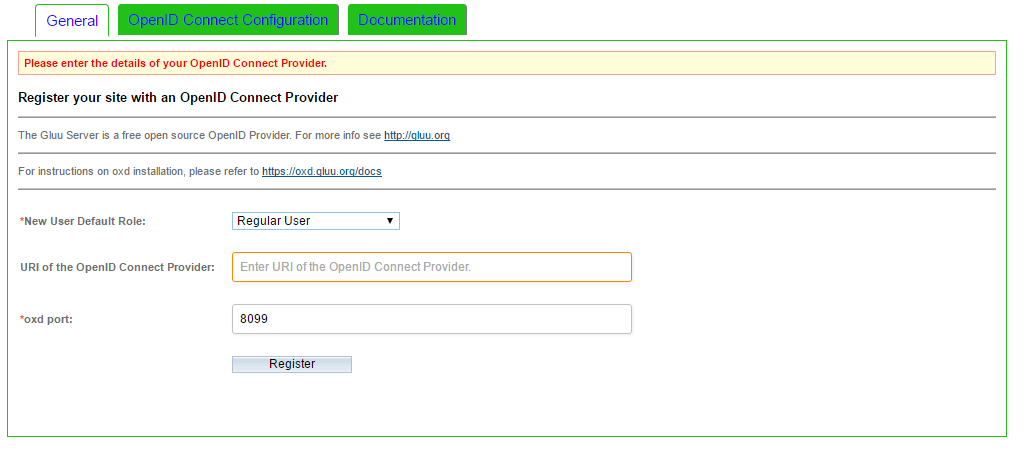
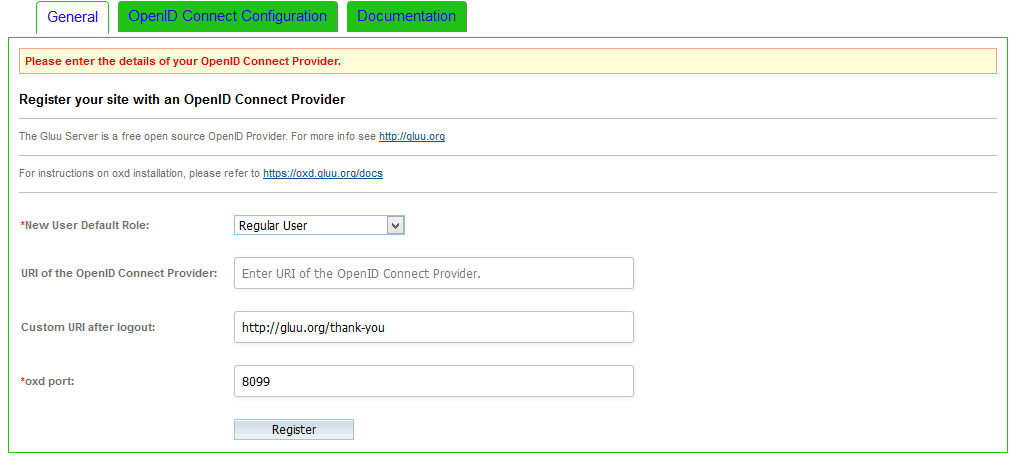
update image and readme

diff --git a/custom/modules/Users/Login.php b/custom/modules/Users/Login.php
@@ -19,21 +19,18 @@ else if(!$gluu_send_user_check && $gluu_oxd_id) {
 	?>
 	<script type="application/javascript">
 		jQuery( document ).ready(function() {
-			$( "#bigbutton" ).after( "<br/><br/><label>Login by OpenID Provider<input type='radio' name='radio' id='OpenID' value='Yes' /> </label>" +
+			$( ".login" ).after( "<br/><br/><label>Login by OpenID Provider<input type='radio' name='radio' id='OpenID' value='Yes' /> </label>" +
 				"<br/><br/><label>Show login form<input type='radio' name='radio' id='base' value='No' /> </label>" );
-			$( "#bigbutton" ).after('<a href="<?php echo login_url();?>" style="background:green; color:#ffffff;border-radius: 0px;" class="btn btn-block" id="gluu_login">Login by OpenID Provider</a>');
-			jQuery('.input-group').hide();
-			jQuery('#bigbutton').hide();
+			$( ".login" ).after('<a href="<?php echo login_url();?>" style="display: block;width: 115px;height: 25px;background: #4E9CAF;padding: 10px;text-align: center;text-decoration : none;border-radius: 5px;color: white;font-weight: bold;" class="button primary" id="gluu_login">Login by OpenID Provider</a>');
+			jQuery('#form').hide();
 			$('input:radio[name="radio"]').change(
 				function(){
 					if ($(this).is(':checked') && $(this).val() == 'Yes') {
 						jQuery('#gluu_login').show();
-						jQuery('.input-group').hide();
-						jQuery('#bigbutton').hide();
+						jQuery('#form').hide();
 					}else{
 						jQuery('#gluu_login').hide();
-						jQuery('.input-group').show();
-						jQuery('#bigbutton').show();
+						jQuery('#form').show();
 					}
 				});
 			$('#OpenID').attr('checked', true);

diff --git a/README.md b/README.md
@@ -42,8 +42,9 @@ In your SugarCRM admin menu panel you should now see the OpenID Connect menu tab
 
 1. New User Default Role: specify which role to give to new users upon registration.  
 2. URI of the OpenID Connect Provider: insert the URI of the OpenID Connect Provider.
-3. oxd port: enter the oxd-server port (you can find this in the `oxd-server/conf/oxd-conf.json` file).
-4. Click `Register` to continue.
+3. Custom URI after logout: custom URI after logout (for example "Thank you" page).
+4. oxd port: enter the oxd-server port (you can find this in the `oxd-server/conf/oxd-conf.json` file).
+5. Click `Register` to continue.
 
 If your OpenID Provider supports dynamic registration, no additional steps are required in the general tab and you can navigate to the [OpenID Connect Configuration](#openid-connect-configuration) tab. 
 
@@ -73,7 +74,9 @@ In the module interface you can enable, disable and delete scopes.
 
 ##### Send user straight to OpenID Provider for authentication
 
-Check this box so that when users attempt to login they are sent straight to the OP, bypassing the local SuiteCRM login screen,.
+Check this box so that when users attempt to login they are sent straight to the OP, bypassing the local SuiteCRM login screen.
+When it is not checked, it will give proof the following screen.   
+![upload](https://raw.githubusercontent.com/GluuFederation/gluu-sso-SuiteCRM-module/master/docu/d9.png) 
 
 ##### Select acr
 
@@ -86,7 +89,3 @@ Note: If the `Select acr` value is `none`, users will be sent to pass the OP's d
 ##### Add acr
 
 The module will detect the OPs supported ACR values if this information is published in the OP's discovery endpoint. However, if the OP does not publish supported ACR values, you may need to add them manually. 
-
-#### Show icons in frontend
-
-![upload](https://raw.githubusercontent.com/GluuFederation/gluu-sso-SugarCRM-module/master/docu/d9.png) 
